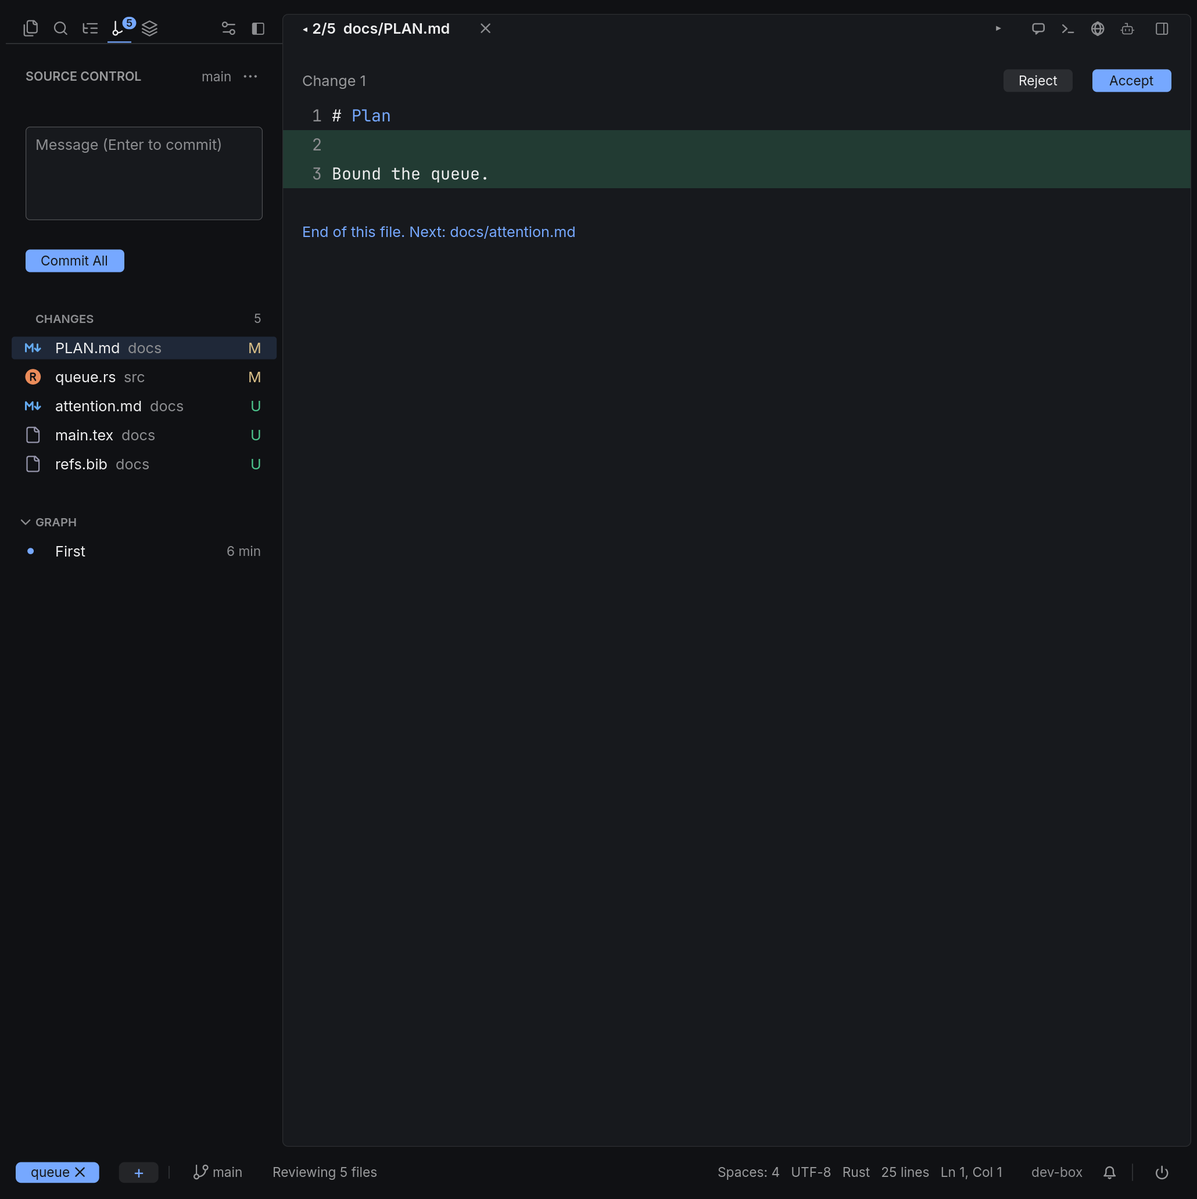
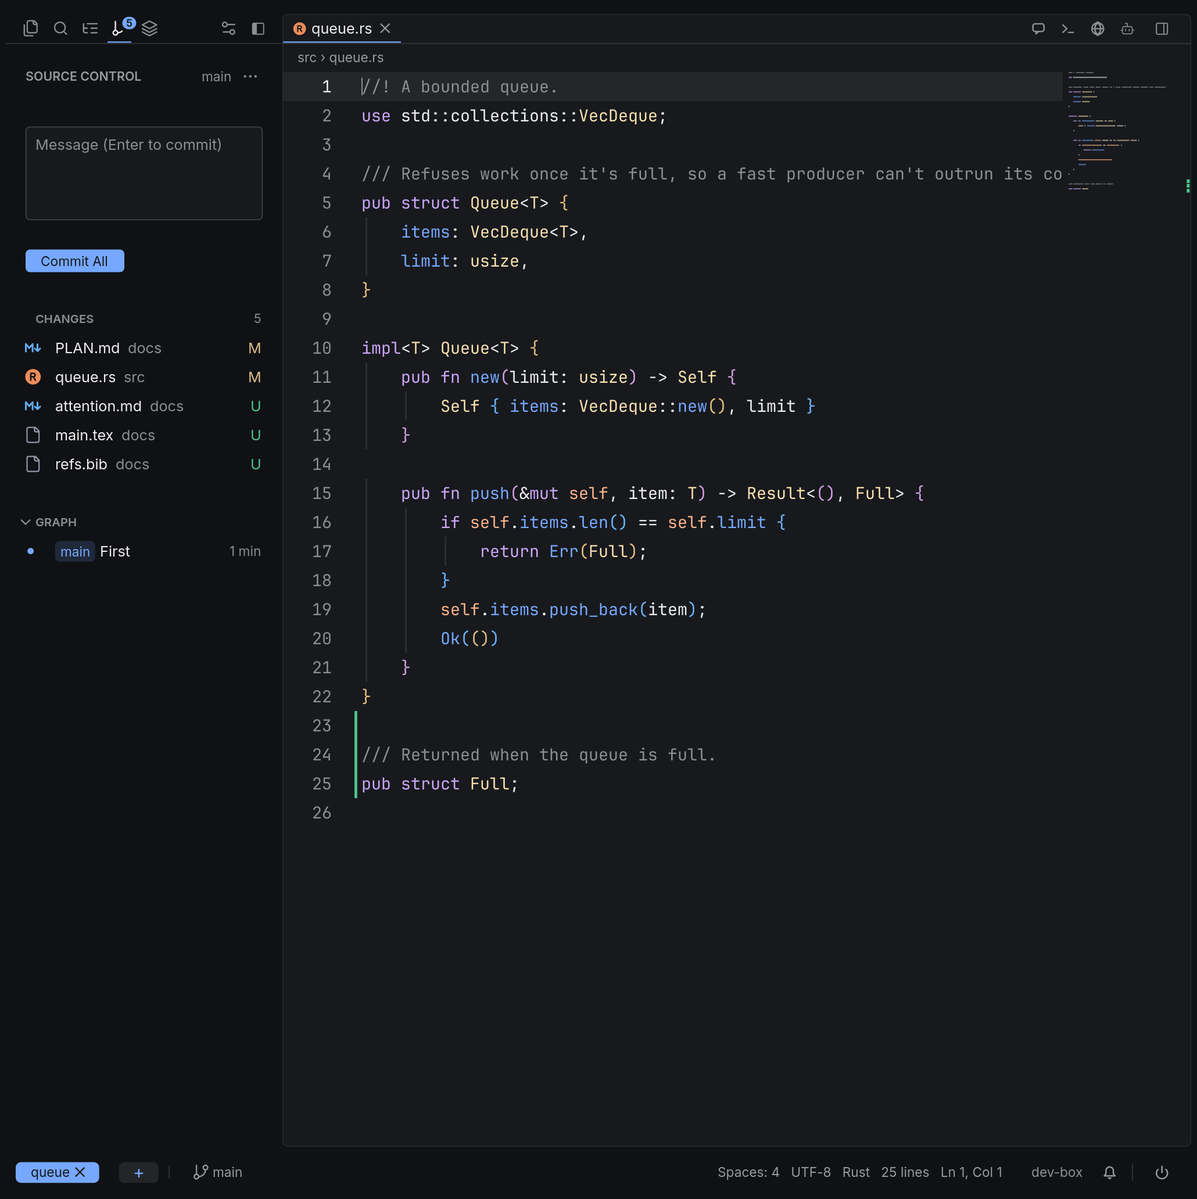
Release 0.12.0
Ask, agents' tabs named by their work, comment numbers with links, copying from comment cards, language server installs that work on Linux without root, the Agents list cut to what a press acts on, the comment order kept machine-wide, and the release review's polish. CHANGELOG, README and its three tour pictures, and PROGRESS say what's in it.

diff --git a/README.md b/README.md
@@ -35,7 +35,9 @@ tmux to keep it running there.
 - **Review before it lands.** Plans wait for your Approve, edits stack hunk by hunk, each agent turn
   is checkpointed, and one changed line can be put back without touching the rest.
 - **Talk about anything you can see.** A sentence, a formula, a diagram, a cell of a table or a spot
-  in a PDF: select it, comment, and the agent gets the file, the line and the quote.
+  in a PDF: select it, comment, and the agent gets the file, the line and the quote. Or select it
+  and Ask, and the agent answers you on a card from the whole document, as a side question that
+  leaves your review and its own work alone.
 - **Documents are pages, not markup.** Markdown and LaTeX open typeset, with math, diagrams,
   citations, Track Changes and offline spelling, while the file stays plain text for git.
 - **A second reader for your review.** Check My Review has the agent weigh each of your comments and
@@ -100,8 +102,10 @@ edits what you edit and git sees every change.
 
 ![A document, with a comment waiting for the agent](docs/images/comments.png)
 
-- **Ask about anything on the page.** Select text, a formula, a diagram or a figure, then Comment or
-  Ask Agent. The answer lands under your question, as a thread beside the page.
+- **Ask about anything on the page.** Select a word you don't know, a sentence or a formula and
+  press **Ask** (Alt+A): the agent reads the whole document and answers on a card under the words,
+  as a side question that never becomes a comment. **Comment** (Alt+C) is for what the agent should
+  act on, and it answers under your words, as a thread beside the page.
 - **See suggestions as suggestions.** Track Changes keeps edits in the text itself, as CriticMarkup or
   the `changes` package. Accept and Reject stand by the one you're on, and the Comments pane counts
   them, with Accept All, Reject All and Next.
@@ -201,7 +205,7 @@ been tried for real. [docs/PROGRESS.md](docs/PROGRESS.md) says what has and hasn
 | Ctrl+J | Bring up or put away a terminal in the side pane |
 | Ctrl+B | Close or open the left side, or Bold with words picked on a page |
 | Alt+C, or select text | Comment on what's selected |
-| Alt+A | Ask the agent about what's selected: a comment that's sent as it's written |
+| Alt+A | Ask about what's selected: the agent answers on a card, and nothing becomes a comment |
 | Ctrl+F | Find in the file; in a terminal or an agent's chat; in the side pane's lists, Review and the Task page |
 | Ctrl+Shift+F | Search the project |
 | Ctrl+\\ | Split pane |
@@ -325,10 +329,11 @@ kernel, with Jupyter's keys. It needs `jupyter_client` and `ipykernel` in the pr
 ## Working with an agent
 
 Whatever you can see, you can talk about, the same way in every file type. Select text and **Comment**
-and **Ask Agent** appear beside it. A picture, diagram or formula has a Comment button under the
+and **Ask** appear beside it. A picture, diagram or formula has a Comment button under the
 pointer, and a PDF or image in the side pane's Preview takes one too. Comments are threads in the side pane,
-kept in `.cellix/threads.json`. Ask Agent sends yours to the agent with its file, line and quote, the
-agent answers with `cellix reply <id> "text"`, and the answer lands under your question. A comment
+kept in `.cellix/threads.json`. **Ask Agent** on a comment's card sends that comment, alone, to the
+agent with its file, line and quote, the agent answers with `cellix reply <id> "text"`, and the
+answer lands under your question. A comment
 not sent yet says on its card how it gets there: with your next prompt to Claude Code, Codex or
 Gemini CLI, whose hooks hand it over, or now with Ask Agent. **Send Comments to Agent** sends
 everything waiting, on code and on pages, in one message, as does **Send 3 to Claude Code** under
@@ -340,7 +345,11 @@ word. With a file
 open the Comments tab lists that file's; with none it lists every file's, each under its file's name,
 and a click on a name or a comment opens the file. Click words a comment is about and its card is
 lit in the Comments tab, which scrolls to it, and comes forward if the pane was open on another tab; click a card and its words are selected in the file. **Next Comment** and **Previous Comment** in the palette go through a file's comments in order, and a click on a line's ◆ opens its comment. Under the kinds a button says what order the tab lists in:
-click it for the document's order, newest first or oldest first. Resolved comments are folded away under a **Show resolved** button after the open ones: click it and they unfold under it, click it again and they fold away. A link in a comment or a reply is
+click it for the document's order, newest first or oldest first, and every Cellix on the machine
+keeps the one you picked. Each card's head ends with the comment's number, and "#33" or "comment 33"
+in a comment, a reply or a terminal's output is a link that opens that comment. Drag across a card's
+words, or double-click them, to select them, and Ctrl+C copies them; a right click on a card has
+**Copy**, **Copy Comment** and **Copy Quote**. Resolved comments are folded away under a **Show resolved** button after the open ones: click it and they unfold under it, click it again and they fold away. A link in a comment or a reply is
 underlined, and a click opens it, in the side pane's browser where there is one. In a narrow pane,
 as when Claude Code docks Cellix, cards are short until you click one, and show their buttons
 while the pointer is on them. Right-click it for
@@ -362,6 +371,17 @@ link that does the same.
 
 What you're writing stands in a box, with a button under it that sends it and one that cancels, for
 the mouse; Enter and Esc do the same from the keyboard.
+
+**Ask** is for a question rather than a comment: a word you don't know, what a formula means, why a
+line is there. Ask on a selection (Alt+A), with **Explain**, **Define** and **Simplify** for the usual
+ones or your own words, runs the agent's own command line in the background, read-only, with the
+whole document and the selection marked in it, and the answer streams onto a card under the words,
+with **Copy**, **Follow Up**, **Make a Comment** (for when it was feedback after all) and **Dismiss**.
+It never types into the agent in the side pane, and none of your waiting comments go with it. Each
+document keeps one side conversation, so a later question remembers the ones before; where Claude
+Code is working here, **With the agent's conversation** asks in a copy of what it already knows,
+leaving its own conversation as it was. Claude Code, Codex and Gemini CLI can answer, and
+`ask_agent` in the settings picks one.
 
 The icons at the top right start a real agent, a terminal or a browser in the side pane, beside your file. Press Ctrl+` to
 move the keyboard between the two (Ctrl+P and Ctrl+Shift+P open their lists from either, and a
@@ -391,9 +411,10 @@ next match and the list scrolls to it. A click on a file takes Find back to the 
 In Review and on the Task page Ctrl+F finds in what that page shows: every change of the file in
 Review, or the task's timeline and the step beside it.
 
-Select output in a terminal tab of the side pane, or hover a row in Problems, and Ask Agent sends it
-to the agent: all of the output, the command that printed it and the project's files it names, or
-the problem with the lines around it. Inside Claude Code it goes into Claude's prompt.
+Select output in a terminal tab of the side pane and Ask asks about it as on a page, with the
+command that printed it and the project's files it names. Hover a row in Problems and Ask Agent
+sends the problem with the lines around it to the agent to act on; inside Claude Code it goes into
+Claude's prompt.
 
 When an agent needs you, Cellix says so once and drops it when you've answered: an agent asking, a
 plan to review, a finished turn, a reply to your comment, or a failed test run. The bell at the right
@@ -415,11 +436,14 @@ Getting Started, in the command palette or on the empty window, is a short guide
 
 ## Agents among themselves
 
-An agent's tab in the side pane says what it's doing: its mark, the name it gives itself (or the one
-you give it with Rename on the tab's menu), how full its context is, and a spinner while it works or
-a dot when it needs you or finished while you were looking elsewhere. A shell's tab is named after
-the program running in it, and turns while it runs. The Agents list stands by what needs you:
-Needs you, Done, Working and Idle, each agent with how long since it changed.
+An agent's tab in the side pane says what it's doing: its mark, its name, how full its context is,
+and a spinner while it works or a dot when it needs you or finished while you were looking
+elsewhere. The name is the one the agent gives itself, else its conversation's title, else what you
+first asked it, so three Claude Code tabs read as three pieces of work; two alike are told apart by
+"(2)", the tab's tip has the whole name, and Rename on the tab's menu gives it your own. A shell's
+tab is named after the program running in it, and turns while it runs. The Agents list stands by
+what needs you: Needs you, Done, Working and Idle, each agent with how long since it changed. It
+lists the agents with a tab here and their helpers, so a press on any row opens something.
 
 The + after the tabs starts things: a terminal, any agent you have (keys 1–9), or a role. A role is
 a prompt for an agent, as a file in `.cellix/roles` or `~/.config/cellix/roles` with the agent named
@@ -654,7 +678,10 @@ Antigravity CLI in place of Gemini CLI, and that isn't covered here yet.
 ## Settings
 
 The sliders at the end of the views open Settings: theme, row height, smooth scrolling, the minimap, the keymap, language servers
-with a one-click install for each, and the installs for your agents. Changes apply as you click, and are
+with a one-click install for each, and the installs for your agents. Each language server says how
+it installs on this machine, with no root needed: Homebrew where it's there, npm into `~/.local`,
+the project's own release build into `~/.local/bin`, or rustup, `go install`, `dotnet tool` and
+`gem`. One only a system package has gets Copy Command, with the command to run. Changes apply as you click, and are
 saved to `~/.config/cellix/settings.json`. You can also edit that file, or
 `.cellix/settings.json` in a workspace:
 

diff --git a/CHANGELOG.md b/CHANGELOG.md
@@ -2,6 +2,50 @@
 
 All notable changes to Cellix. Versions follow semver; each one is on the [releases page](https://github.com/quill-27f/cellix/releases).
 
+## [0.12.0] - 2026-11-20
+
+Ask: select words on a page, in code or in a terminal's output and ask the agent about them, as a side question that comes back on a card, not as a comment. Agents' tabs are named by what they're working on, every comment shows its number, and "#33" goes to comment 33, whose words you can now select and copy. Installing a language server works on Linux without root, and Settings says how each one installs before you press. The Agents list shows only agents you can act on here, the comment order you pick is kept for every Cellix on the machine, and a round of polish evens out tabs, buttons, cards and pages.
+
+### Added
+- **Ask.** A selection's buttons are Comment and Ask, on a page, in code and on a terminal's output, and Alt+A opens Ask: a card under the words with a field, and Explain, Define and Simplify for the usual questions. The agent's own command line answers in the background, read-only, with the whole document (the selection marked, the headings over it, a paper's `\input` files read in), so a question about one word is answered from everything around it. The answer streams onto the card, with Copy, Follow Up (which goes on in the same side conversation), Make a Comment (for when it was feedback after all) and Dismiss. Every later question about the same document goes on in its one side conversation. Where Claude Code works here, "With the agent's conversation" asks in a copy of what it already knows, and leaves its own conversation as it was. An answer is never a comment: it's never counted, sent or handed to the agent. Claude Code, Codex and Gemini CLI can answer; with none installed the card says what Ask needs.
+- The order you pick in the Comments pane (Document order, Newest first, Oldest first) is kept in `~/.config/cellix/settings.json` as `comment_sort`, so every Cellix on the machine opens with it; one already running follows the next time you open the menu, show the comments or come back to the window. A workspace's `.cellix/settings.json` can set its own.
+- Each language server in Settings › Editor says how it installs here, beside its name ("npm", "brew", "GitHub"), and the whole command when pointed at. The card that offers a server says it too, with the command set as code, and what Copy Command copies.
+- "Set up more agents…" at the end of Review with… opens Settings at Integrations.
+- A workspace's tile has the needs-you dot while its Inbox holds a failed test run or an agent's answer to a comment.
+- Each comment's card ends its head with the comment's number ("You · Clarity · #1"), as do the glance card and the review's Markdown, and "#33", "comment 33" or "Comment #33" in a comment, a reply or a terminal's output is a link: a press opens that comment as its ◆ does (a resolved one is shown, and a missing one is said), a right click has Go to Comment #33, and in a terminal it's a Ctrl+click.
+- A comment card's words can be selected: drag, double-click a word, triple-click a line or Shift+click, and Ctrl+C copies them, line breaks kept. A right click on a card has Copy, Copy Comment and Copy Quote, with Open Link and Copy Link over them on a link.
+- The graph in Source Control stands each branch and tag as a chip before its commit's message, in its lane's colour, as VS Code's does; a long name is cut in its middle.
+
+### Changed
+- An agent's tab is named by what it's working on: the name it gives itself, else its conversation's title, else what you first asked it, cut at a word's end, where every Claude Code tab used to read "Claude Code". Tabs that still read alike are told apart by "(2)", the tab's tip has the whole name, and Rename still wins. The Agents list names them the same way.
+- Ask Agent on one comment's card sends that comment alone. The agent used to be handed every other comment that waited too, and answered them all; they now wait for your next prompt or Send.
+- Install for a language server runs the first way this machine has: Homebrew where it's on the PATH, npm into `~/.local` where npm's own folder isn't yours, the project's release build fetched into `~/.local/bin` (static musl builds on Linux where the project makes them), or rustup, `go install`, `dotnet tool` or `gem --user-install`. A server only a system package gives says what it needs ("Needs … or sudo dnf install …") with Copy Command, and opening the file again looks for the server once more. Servers are found and started from `~/.local/bin`, `~/.cargo/bin`, Go's bin and `~/.dotnet/tools` even when the PATH lacks them.
+- The Agents list shows only agents with a tab here, and their helpers: every row does something when pressed. Agents running in other terminals no longer show there, in counts, on the bell or on the workspace tile; they still hear about your comments.
+- Tabs behind share a short row evenly: each keeps the same number of letters, three at the least, and they go to their marks only together. A first tab cut to its mark gets a little more room, and the + stands in the middle between the last tab and ⤢. Where the row is shorter still, the name in front is cut, keeping its "(2)", before ⤢ gives way, and only then do tabs go into the chevron's list.
+- A button's words are centred on a capital's height, so every label of a size has one baseline, and a button in a row of words stands on their line. Every floating card keeps 24 px inside its edge on all four sides, and the cards that ask you something put their buttons at the right, the answer last.
+- A line's number takes its worst problem's colour, warnings in amber, and the word where the problem starts is underlined in it, from a task's problems as well as a language server's.
+- Review with… lists only agents that are installed. An idle agent's name reads as plain text, not greyed out, and a helper's name is lighter than its agent's.
+- Check My Review is a quiet button, so only one button in view is filled.
+- Settings' language servers stand in one column: every tag ends at one edge, a long name is cut before it, and a pointed-at row stays quiet.
+- The workspaces share the status bar's row only where it still holds the status bar's words at their fullest; otherwise they have a row of their own, where New Workspace keeps its words.
+- In the light theme the needs-you chip and a transcript's "failed" read at 4.5 to 1.
+- A tip keeps 8 px between its words and its edge, over and under.
+
+### Fixed
+- A terminal's late answer to a question Cellix had stopped waiting for was typed into the open file as keys (`11;rgb:1010/1111/1414`). It's dropped wherever it arrives, whole or in pieces.
+- Installing a language server from Settings failed on Linux: most were Homebrew installs, npm wrote to a folder only root could, and there was no terminal for sudo. A failed install now says why on its row and on the card, and both stay until you've dealt with it.
+- "Spaces: 4" no longer drops off the status bar while a language server says it's fetching.
+- Sticky scroll keeps a scope's header while one of its lines is the first under the headers, and Go to Line, search results, problems and definitions put their line under the pinned headers instead of behind them.
+- A LaTeX drawing that never answers is stopped after a minute and the page says so, instead of "Drawing with LaTeX…" for ever; with no LaTeX installed it says that.
+- A selection's buttons stand 12 px from it, beside its start, and never past what follows its paragraph, or under it where a label such as a paper's Abstract stands over it; the same for selected terminal output, ending where it ends.
+- An insertion's underline stops at its last letter; a drawing's note, a picture under open source and the scrollbar beside Show Source keep their air; the emoji picker is as tall as what it finds; a pie's slices are their swatches' colours and stand out from the page in both themes; a table cut at the page's edge shows no part of a cell's words; an equation's number stands on its line; a misspelt word in a table's cell keeps its dots off the cell's line; a wide code box's scrollbar stands inside it, clear of its code.
+- A reviewer's note's tint is cut flush where it wraps; Abort stands on the line of the words beside it; a submenu stands against its menu without covering its edge.
+- The state dot on an agent's tab stays put when the tab comes forward, chips in a tab row are one height, a tip hides the terminal cursor under it, and a dragged tab's bar stands clear of the pane's line.
+- A frame drawn after news from an agent could put the workspaces' row over the status bar: the window is fitted when news comes in, not only on a key.
+- A state diagram's labelled edge to the state under it runs straight down with its label beside it, where its arrowhead stood on the label.
+- A card over a picture or a drawing hides only what it covers, where the rows at its top and foot were cleared whole and cut an equation under it in half.
+- A pixel of the terminal's prompt no longer shows at a tip's rounded corner, and the program in the side pane starts 8 px under the line over it.
+
 ## [0.11.0] - 2026-11-19
 
 Agents among themselves: they can start, message and wait for each other, and you see at a glance which one is working, which finished and which needs you. Reviewing a document goes further: your comments reach the agent from a page as from code, a card shows what changed since you wrote it, an agent's suggestion is accepted where it stands, and the review comes out as Markdown. Shift+click selects across a whole document, a link can be copied, and Cellix is calmer: idle, it draws and sends nothing. The dark theme is herdr's graphite.

diff --git a/docs/PROGRESS.md b/docs/PROGRESS.md
@@ -4383,3 +4383,16 @@ From the final review of the tour before 0.12.0 (review3-a #1 and #2), polish tr
 - Not done (review3-a #5): tabs behind at identical marks with room after ⤢ (m1-agent-names-list, 115 px) don't get letters back: three letters each need about 11 more columns than that row has, and fewer letters say nothing a mark doesn't, and the user's rule is none at its mark while another shows letters. Next: give identical marks their " (2)", or let the room after ⤢ stand before it.
 - Left from the ui-expert's review, as before this change: a name is cut letter by letter, so a cut can end a letter into a word ("Fix the login r… (2)", "Claude Co…", which frees only 10 px); cutting back to the word before where that leaves fewer than three of its letters is next. In m1-agent-tabs-narrow the + stands 39 px after the × and 34 before the first icon, and in m2-agents-urgency ⤢ stands 63 px from the icons against 46 elsewhere.
 - Unverified: a real terminal for the cut name in front.
+
+## Release 0.12.0 (2026-11-20)
+
+- On the user's word before a night away: "continue autonomously and release it". 0.12.0 is the round after 0.11.0: Ask (a side question about a selection, answered on a card), agents' tabs named by their work, comment numbers with "#33" links, selecting and copying a comment card's words, language server installs that work on Linux without root, the Agents list cut to what a press acts on, the comment order kept machine-wide, two guard slots, and the release review's polish (tracks B, L, F1, F2, M, R).
+- The whole tour at `de7733f`: 304 scenes in four parts; the fourth ran past the guard's 30 minutes under a load of 14 with another track's verify beside it, leaving three `81-context-*` scenes untaken, and seven scenes waited past their time under the same load. All eleven were taken again at `598ae98`.
+- Two ui-expert reviews of the whole tour against 8fb3eb0's found five faults that blocked the release, fixed in tracks T, U and V (entries above): named agents' tabs went into the chevron's list while room was left (m1-agent-names); ⤢ gave way with room for it (w0-*); the Ask card hid the drawing's line under its foot (q4); a tab's name stood as a sentence's subject ("Review the queue wants to start Codex", 170); a selection on a comment card was 1.27:1 against it (50-comment-selected).: `689b8b9` (V), `cee6dcf`, `4ed6343`, `f809d81` (U) and `58f87f7` (T). Their scenes were taken again on the release's tree and looked at.
+- Before this: a pass with no agent on the PATH (one test, `a_lists_lines_end_where_its_rows_end`, depended on the machine's agents; fixed in `7d5f4ee`), and Linux's input path (crossterm's `use-dev-tty`) built and tested on macOS: 38 PTY tests, `hold`, `hot_path`, `cli` and cellix-term's 77 passed.
+- A verify of track U's timed out at 30 minutes with four tests that open a terminal stuck in the kernel (`openpty` → `ttyname_r` → `lstat` on `/dev`, `ls /dev` hanging machine-wide too); it cleared by itself, and the rerun passed. The guard's record is in `.git/cellix-guard/timeouts/20261120-074345-check-93653`.
+- Flaky under load, not changed: `an_idle_window_wakes_only_when_something_is_due` (2.01 wakes a second at most) under loads of 18 to 20.
+- Unverified: a real Linux machine (the installs, the keys), a real Ghostty, Gemini CLI answering Ask, Codex's `exec` read-only resume, the hooks' "alone" rule for Ask Agent inside a real agent, a slow SSH link.
+- Left, polish, from the reviews: Copy's menu 2–3 px from the card's divider and 2 px from Delete (50-comment-copy-menu); the graph's chips cut in their middle ("ag…und") where the message needs the room (81-git-graph); the selection bar 56 px under a drag-scrolled selection's visible end (s1-page-drag-scroll) and between a selected heading and the line under it (s1-page-shift-select-scrolled); 45 px against 51 under the quote on a card with a reply; the dock's chip padded 13/24 px; Clear Finished 8 px short of the Inbox's ages; the save dialog's answer first; the Ask answer card's edge across the paragraph under it (q3); lines in a card a row apart, so the install card's paragraph breaks early in the side pane; the New Workspace tip's grey words; Settings' chip 25/30 px. From before: "n" over Σ, the submenu's seam, the + between unequal gaps, the terminal cursor's height on its first row, the light theme's muted grey, link underlines on the baseline.
+- The README's three pictures from the tour (`14-agents`, `50-comments`, `13-source-control`) are taken on the release's tree; the two inside Claude Code are still the old look. README and CHANGELOG say what Ask, the tab names, comment numbers and copy, and the installs do.
+- Next: the user's look at 0.12.0.
